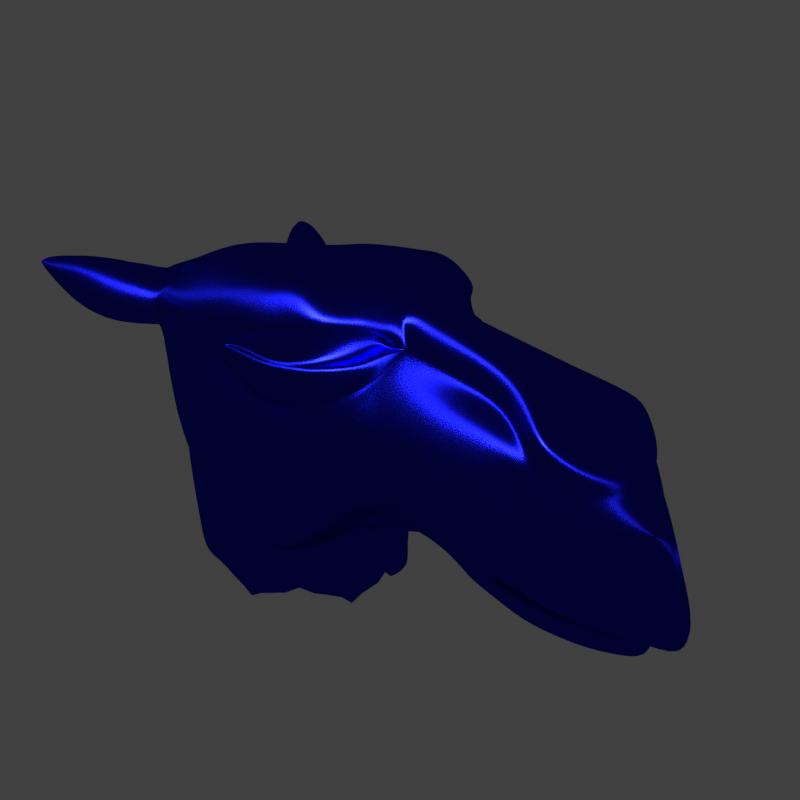
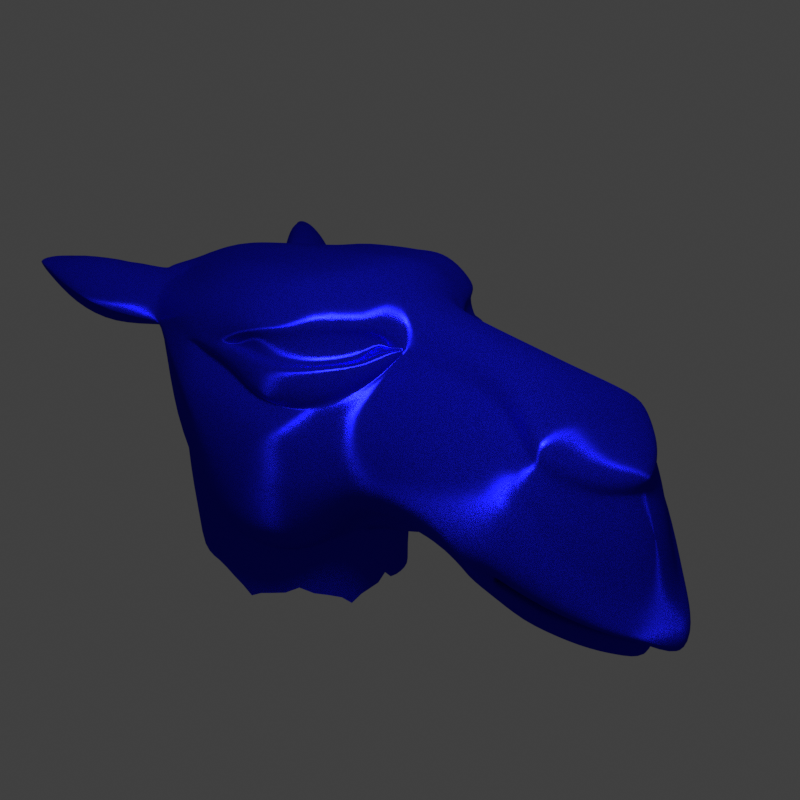
Remvoe applyNormalMap function

Changed region(s): [[0.0625, 0.2812, 0.875, 0.8125], [0.375, 0.7188, 0.4375, 0.75]]

diff --git a/reports/project-report/disney.html b/reports/project-report/disney.html
@@ -156,10 +156,10 @@
                 <img src="images/disney/blender/specular_blender.png" alt="Blender" class="img-responsive">
                 <img src="images/disney/blender/specular_nori.png" alt="Nori" class="img-responsive">
             </div>
-            <p>This last image shows a high anisotropic value. The right image (nori) shows strange looking aniso-blurrs
-                (sometimes there is even a kink). This is because we are currently working on fixing the normal maps,
-                which means that the normals are currently not correct for object files. But more generally, the
-                anisotropic effect seems to be fine.</p>
+            <p>This last image shows a high anisotropic value. As we can see, both Blender and Nori seem to show the
+                anisotropic effect quite well. However Blender has included another option called "Anisotropic
+                Rotatoin", where they allow to rotate the anisotropic blur along an axis. This feature is not
+                implemented in Nori, but it already allows now to create the intended anisotropic effect.</p>
             <div class="twentytwenty-container">
                 <img src="images/disney/blender/aniso_blender.png" alt="Blender" class="img-responsive">
                 <img src="images/disney/blender/aniso_nori.png" alt="Nori" class="img-responsive">

diff --git a/src/shapes/mesh.cpp b/src/shapes/mesh.cpp
@@ -264,7 +264,8 @@ void Mesh::getOptixHitgroupRecords(OptixState &state, std::vector<HitGroupRecord
     copyMeshDataToDevice();
 
     HitGroupRecord rec = {};
-    OPTIX_CHECK(optixSbtRecordPackHeader(state.void applyNormalMap(Intersection &its) const;ANGLE_MESH;
+    // TODO: THIS DOES NOT WORK ANYMORE.
+    //OPTIX_CHECK(optixSbtRecordPackHeader(state.void applyNormalMap(Intersection &its) const;ANGLE_MESH;
     rec.data.geometry.triangleMesh.positions = reinterpret_cast<float3 *>(d_V);
     rec.data.geometry.triangleMesh.normals = reinterpret_cast<float3 *>(d_N);
     rec.data.geometry.triangleMesh.texcoords = reinterpret_cast<float2 *>(d_UV);

diff --git a/src/shapes/shape.cpp b/src/shapes/shape.cpp
@@ -80,18 +80,6 @@ Shape::~Shape()
 	delete m_emitter;
 }
 
-
-void Shape::applyNormalMap(Intersection &its) const
-{
-	if (!m_normalMap) return;
-
-	// This is not needed anymore!
-
-	// note: normal map already normalized
-	/*const Normal3f nmap = m_normalMap->eval(its.uv);
-	its.shFrame = Frame(its.toWorld(nmap));*/
-}
-
 void Shape::sampleVolume(ShapeQueryRecord &sRec, const Point3f &sample) const
 {
 	sRec.p   = m_bbox.min + m_bbox.getExtents().cwiseProduct(sample);

diff --git a/src/utils/bvh.cpp b/src/utils/bvh.cpp
@@ -454,7 +454,6 @@ bool BVH::rayIntersect(const Ray3f &_ray, Intersection &its, bool shadowRay) con
     if (foundIntersection) {   
         // Apply setHitInformation to return value
         its.shape->setHitInformation(f, ray, its);
-        its.shape->applyNormalMap(its);
     }
 
     return foundIntersection;

diff --git a/include/nori/shape.h b/include/nori/shape.h
@@ -186,11 +186,6 @@ public:
 	 * */
 	virtual float pdfVolume(const ShapeQueryRecord &sRec) const;
 
-    /**
-     * Apply the normal map to modify the intersecion shading normal
-     */
-	void applyNormalMap(Intersection &its) const;
-
 #ifdef NORI_USE_OPTIX
 	/**
 	 * Defined in OptixState.as.cpp
